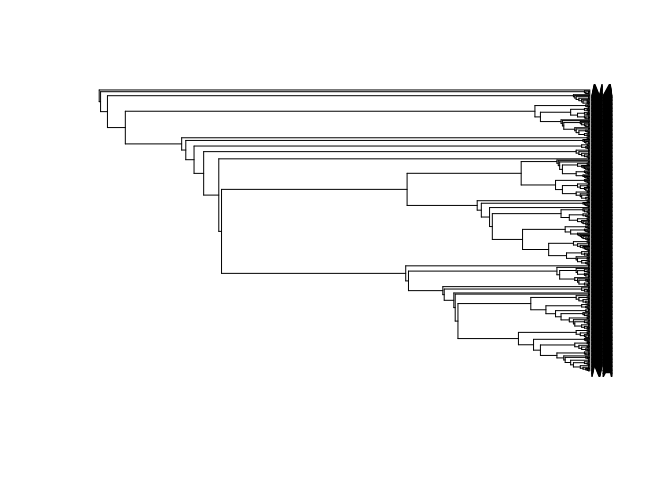
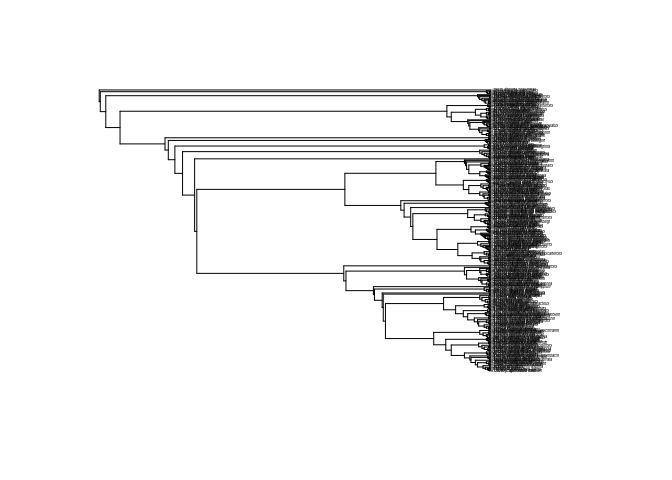
Updating read/write using namespace

diff --git a/README.md b/README.md
@@ -1,20 +1,34 @@
 
-[![Travis build status](https://travis-ci.org/USCbiostats/rphyloxml.svg?branch=master)](https://travis-ci.org/USCbiostats/rphyloxml) [![Build status](https://ci.appveyor.com/api/projects/status/3pp6ue80rcaj4py5/branch/master?svg=true)](https://ci.appveyor.com/project/gvegayon/rphyloxml/branch/master) [![Coverage status](https://codecov.io/gh/USCBiostats/rphyloxml/branch/master/graph/badge.svg)](https://codecov.io/github/USCBiostats/rphyloxml?branch=master)
+[![Travis build
+status](https://travis-ci.org/USCbiostats/rphyloxml.svg?branch=master)](https://travis-ci.org/USCbiostats/rphyloxml)
+[![Build
+status](https://ci.appveyor.com/api/projects/status/3pp6ue80rcaj4py5/branch/master?svg=true)](https://ci.appveyor.com/project/gvegayon/rphyloxml/branch/master)
+[![Coverage
+status](https://codecov.io/gh/USCBiostats/rphyloxml/branch/master/graph/badge.svg)](https://codecov.io/github/USCBiostats/rphyloxml?branch=master)
 
 <!-- README.md is generated from README.Rmd. Please edit that file -->
-rphyloxml
-=========
 
-rphyloxml provides access to the [phyloXML](http://www.phyloxml.org) file format. For now, the only functions that are implemented in the package are:
+# rphyloxml
 
--   `write_phyloxml`: A method to coerce `phylo` objects from the `ape` package as phyloXML (XML) documents.
--   `read_phyloxml`: A method to read phyloXML documents into R. It returns a data frame with the structure of the tree and a nested list with each nodes' annotations.
--   `validate_phyloxml`: A wrapper of `xml2::xml_validate`, which allows validating a phyloXML doc using the phyloxml.xsd schema (see [here](http://www.phyloxml.org/1.20/phyloxml.xsd))
+rphyloxml provides access to the [phyloXML](http://www.phyloxml.org)
+file format. For now, the only functions that are implemented in the
+package are:
 
-This package has been motivated to be used with the javascript library [jsPhyloSVG](http://www.jsphylosvg.org), for which we are currently developing an R package with the same name that provides an htmlwidget [here](https://uscbiostats.github.com/jsPhyloSVG).
+  - `write_phyloxml`: A method to coerce `phylo` objects from the `ape`
+    package as phyloXML (XML) documents.
+  - `read_phyloxml`: A method to read phyloXML documents into R. It
+    returns a data frame with the structure of the tree and a nested
+    list with each nodes’ annotations.
+  - `validate_phyloxml`: A wrapper of `xml2::xml_validate`, which allows
+    validating a phyloXML doc using the phyloxml.xsd schema (see
+    [here](http://www.phyloxml.org/1.20/phyloxml.xsd))
 
-Installation
-------------
+This package has been motivated to be used with the javascript library
+[jsPhyloSVG](http://www.jsphylosvg.org), for which we are currently
+developing an R package with the same name that provides an htmlwidget
+[here](https://uscbiostats.github.com/jsPhyloSVG).
+
+## Installation
 
 You can install rphyloxml from github with:
 
@@ -23,10 +37,11 @@ You can install rphyloxml from github with:
 devtools::install_github("USCBiostats/rphyloxml")
 ```
 
-Writing phyloXML files
-----------------------
+## Writing phyloXML files
 
-In the following example, we create a random tree using the rtree function from the ape package, and later on coerce it into a phyloXML document using `write_phyloxml`.
+In the following example, we create a random tree using the rtree
+function from the ape package, and later on coerce it into a phyloXML
+document using `write_phyloxml`.
 
 ``` r
 library(ape)
@@ -39,7 +54,7 @@ x
 #> Phylogenetic tree with 3 tips and 2 internal nodes.
 #> 
 #> Tip labels:
-#> [1] "t1" "t2" "t3"
+#> [1] "t2" "t3" "t1"
 #> 
 #> Rooted; includes branch lengths.
 ```
@@ -49,32 +64,32 @@ z <- write_phyloxml(x)
 z
 #> {xml_document}
 #> <phyloxml schemaLocation="http://www.phyloxml.org http://www.phyloxml.org/1.10/phyloxml.xsd" xmlns:xsi="http://www.w3.org/2001/XMLSchema-instance" xmlns="http://www.phyloxml.org">
-#> [1] <phylogeny rooted="true">\n  <name>A phylogenetic tree</name>\n  <de ...
+#> [1] <phylogeny rooted="true" rerootable="false">\n    <name>A phylogenetic tr ...
 ```
 
-You can get a "nicer" view of it by doing the following:
+You can get a “nicer” view of it by doing the following:
 
 ``` r
 cat(as.character(z))
 #> <?xml version="1.0" encoding="UTF-8"?>
 #> <phyloxml xmlns:xsi="http://www.w3.org/2001/XMLSchema-instance" xmlns="http://www.phyloxml.org" xsi:schemaLocation="http://www.phyloxml.org http://www.phyloxml.org/1.10/phyloxml.xsd">
-#>   <phylogeny rooted="true">
+#>   <phylogeny rooted="true" rerootable="false">
 #>     <name>A phylogenetic tree</name>
 #>     <description>Some description</description>
 #>     <clade>
 #>       <clade>
 #>         <branch_length>0.26938187633641064167</branch_length>
 #>         <clade>
-#>           <name>t1</name>
+#>           <name>t2</name>
 #>           <branch_length>0.16934812325052917004</branch_length>
 #>         </clade>
 #>         <clade>
-#>           <name>t2</name>
+#>           <name>t3</name>
 #>           <branch_length>0.03389562247321009636</branch_length>
 #>         </clade>
 #>       </clade>
 #>       <clade>
-#>         <name>t3</name>
+#>         <name>t1</name>
 #>         <branch_length>0.17878500418737530708</branch_length>
 #>       </clade>
 #>     </clade>
@@ -82,16 +97,18 @@ cat(as.character(z))
 #> </phyloxml>
 ```
 
-And to store the document, you just need to use `xml2` (which is what powers the package) as follows:
+And to store the document, you just need to use `xml2` (which is what
+powers the package) as follows:
 
 ``` r
 xml2::write_xml(z, "mynicetree.xml")
 ```
 
-Reading XML files
------------------
+## Reading XML files
 
-We will read the file [amphibian\_tree\_of\_life\_Frost\_DR\_2006.xml](http://www.phyloxml.org/examples/amphibian_tree_of_life_Frost_DR_2006.xml) available in both the package and the phyloxml website.
+We will read the file
+[amphibian\_tree\_of\_life\_Frost\_DR\_2006.xml](http://www.phyloxml.org/examples/amphibian_tree_of_life_Frost_DR_2006.xml)
+available in both the package and the phyloxml website.
 
 ``` r
 # Reading from the package files
@@ -343,15 +360,18 @@ str(xmltree, 4)
 # We can coerce this into a mulitphylo list
 (apetree <- phyloxml2phylo(xmltree))[[1]]
 #> 
-#> Phylogenetic tree with 0 tips and 357 internal nodes.
+#> Phylogenetic tree with 358 tips and 357 internal nodes.
 #> 
 #> Tip labels:
-#> NULL
+#>  =119767|Capensibufo rosei, =125255|Capensibufo tradouwi, =119769|Stephopaedes anotis, =8386|Bufo marinus, =8384|Bufo bufo, =103606|Torrentophryne aspinia, ...
 #> 
 #> Rooted; includes branch lengths.
 ```
 
 ``` r
-plot(apetree)
-#> Warning in plot.phylo(x[[i]], ...): found less than 2 tips in the tree
+plot(apetree, cex=.25)
+#> Warning in plot.phylo(x[[i]], ...): 715 branch length(s) NA(s): branch lengths
+#> ignored in the plot
 ```
+
+<img src="man/figures/README-example-plot-read-1.png" width="100%" />
